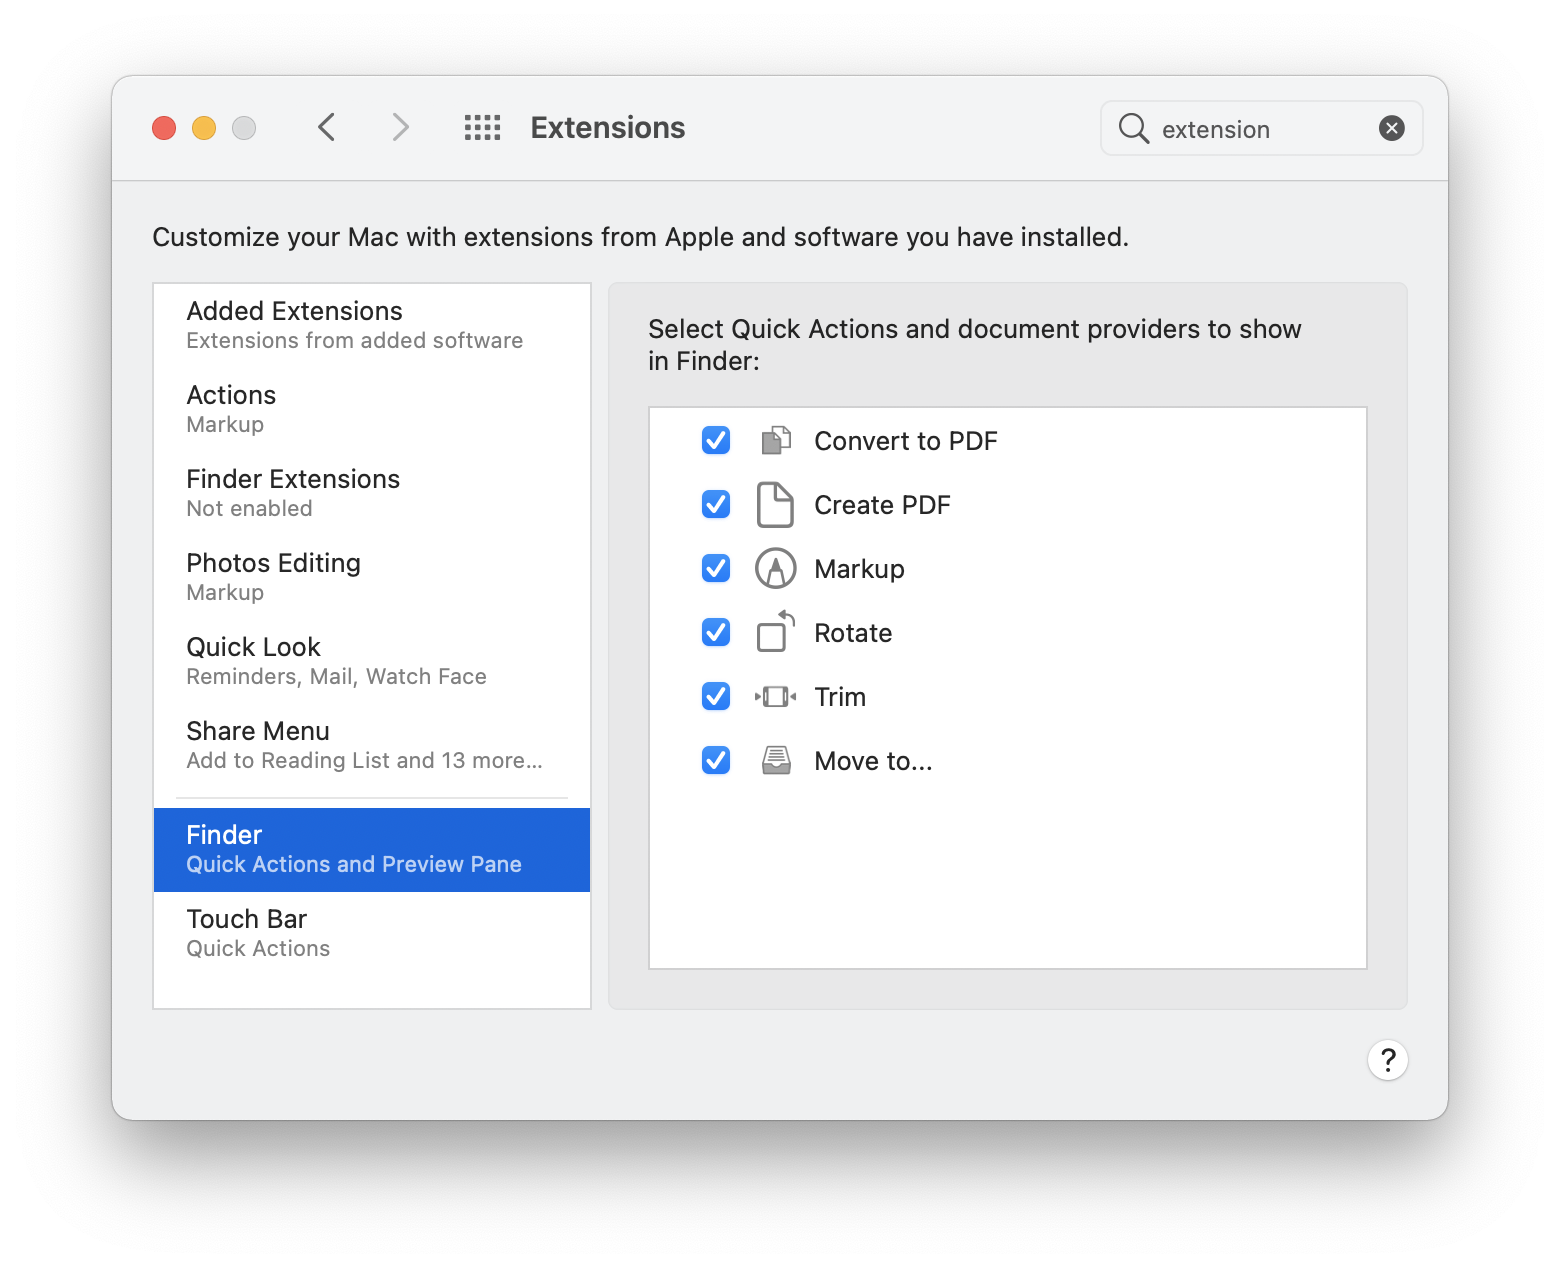
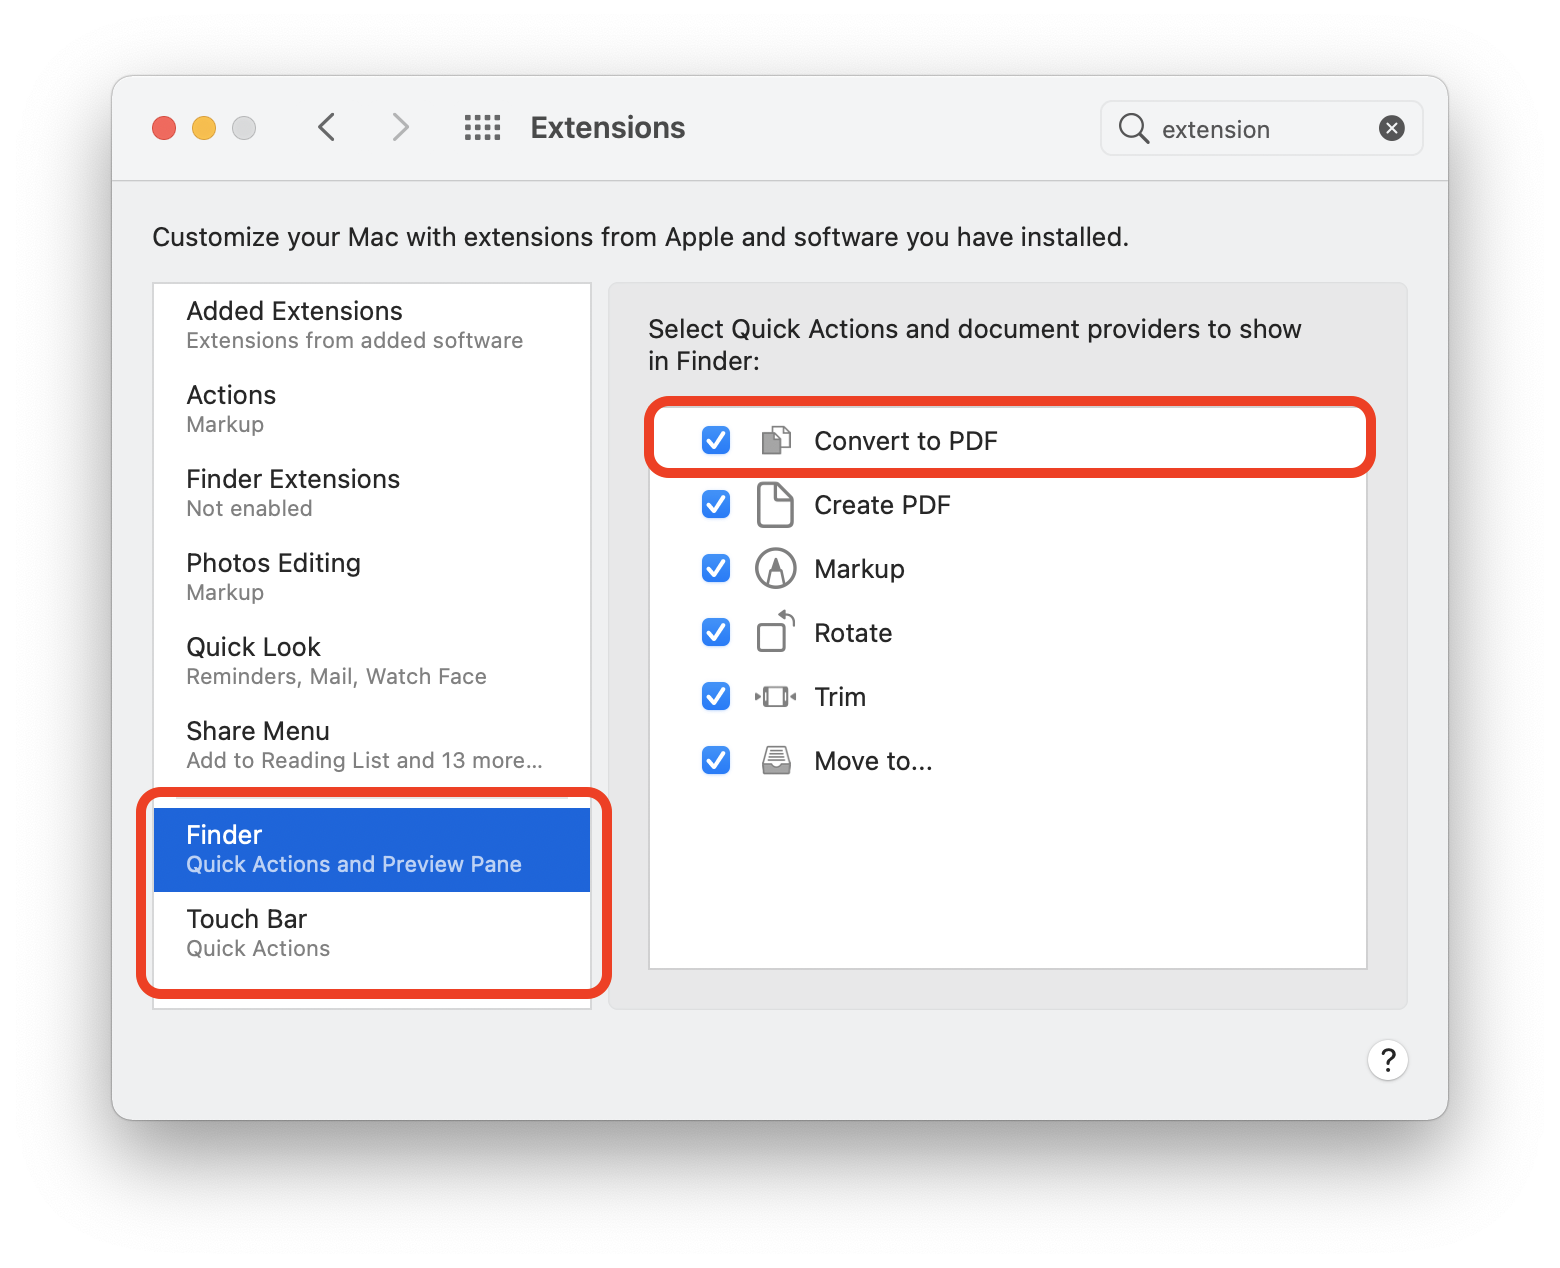
Update README

Changed region(s): [[0.4, 0.3076, 0.8923, 0.3998], [0.0923, 0.6151, 0.4, 0.7997], [0.0615, 0.6459, 0.0923, 0.7689]]

diff --git a/README.md b/README.md
@@ -78,3 +78,5 @@ Adjusting settings to use extensions with the Finder and MacBook Pro Touch Bar.
 :-------------------------:|:-------------------------:
 ![](/img/01-sys-prefs-600px.png) | ![](/img/07-sys-pref-extensions-icon.png)
 
+![](/img/08-sys-pref-extensions-Finder.png)
+![](/img/09-sys-pref-extensions-Touch-Bar.png)
